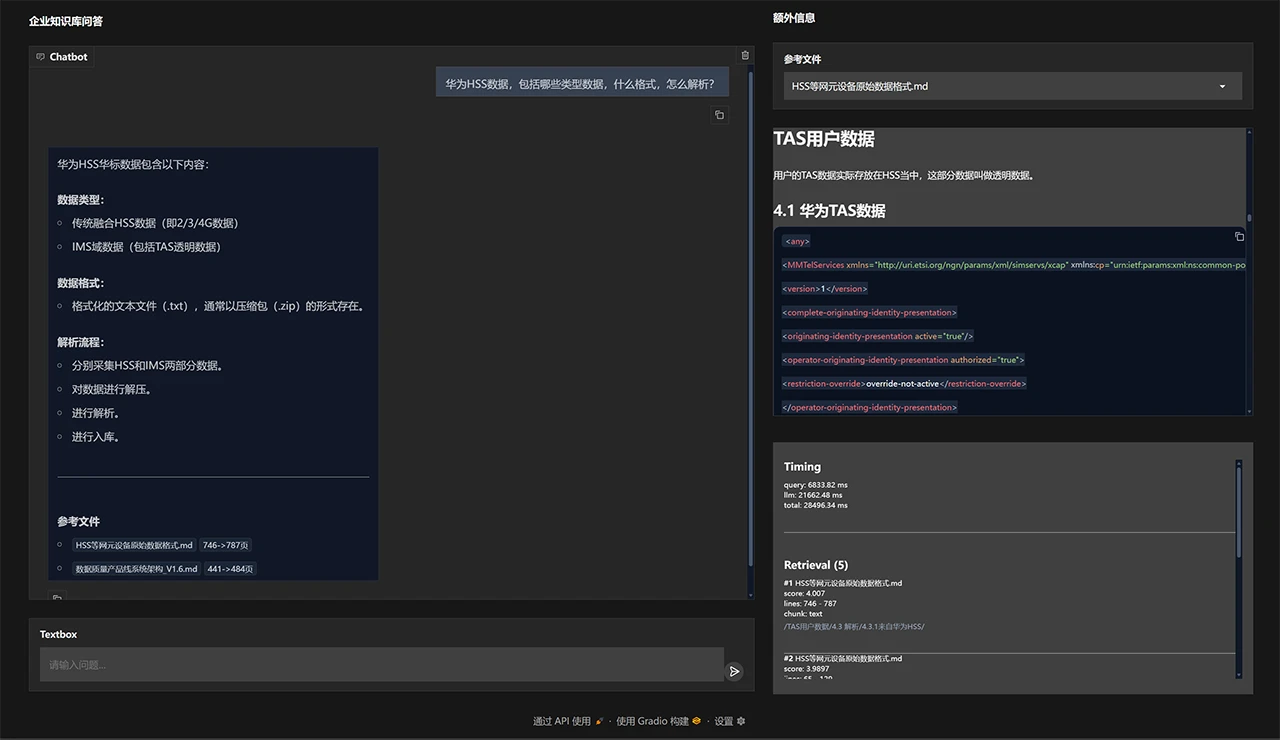
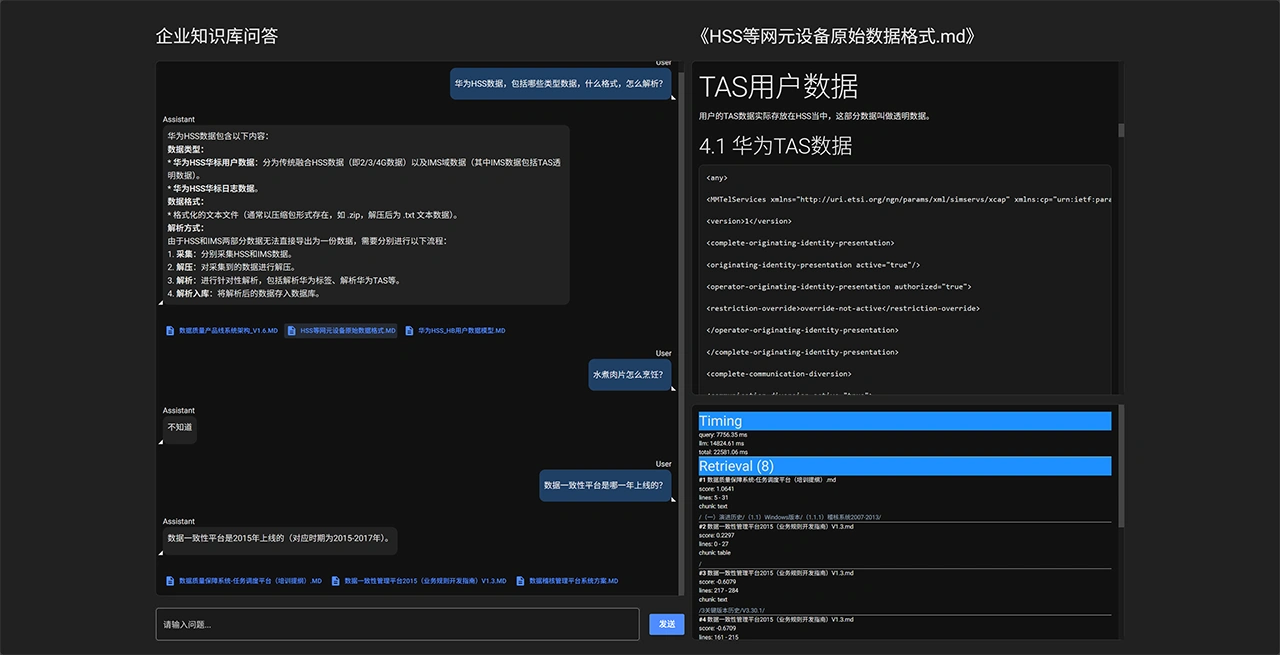
ui tweak and webui screenshot updated

diff --git a/src/rag_webui.py b/src/rag_webui.py
@@ -44,7 +44,7 @@ ui.add_head_html(
 
     body {
         overflow: hidden;
-        background: #151515;
+        background: #212121;
         color: #e0e0e0;
     }
 
@@ -228,6 +228,7 @@ with (
                 """
             flex: 1;
             overflow-y: auto;
+            background: #121212;
 
             border: 1px solid #3a3a3a;
             border-radius: 8px;
@@ -563,16 +564,15 @@ with (
             border: 1px solid #3a3a3a;
             border-radius: 8px;
             padding: 12px;
-            height: 50vh;
+            height: 51vh;
             overflow-y: auto;
+            background: #121212;
             """
         )
 
         #
         # debug
         #
-
-        ui.markdown("### 调试信息")
 
         debug_panel = ui.html(
             """
@@ -588,9 +588,10 @@ with (
             border: 1px solid #3a3a3a;
             border-radius: 8px;
             padding: 12px;
-            height: 30vh;
+            height: 36vh;
             overflow-y: auto;
             font-size: 12px;
+            background: #121212;
             """
         )
 

diff --git a/src/rag/formatter.py b/src/rag/formatter.py
@@ -122,6 +122,7 @@ def build_debug_html(debug_data):
             </div>
 
             <div style="margin-top:4px; color:#94a3b8;">
+                caption:
                 {item.get("header_path")}
             </div>
 
